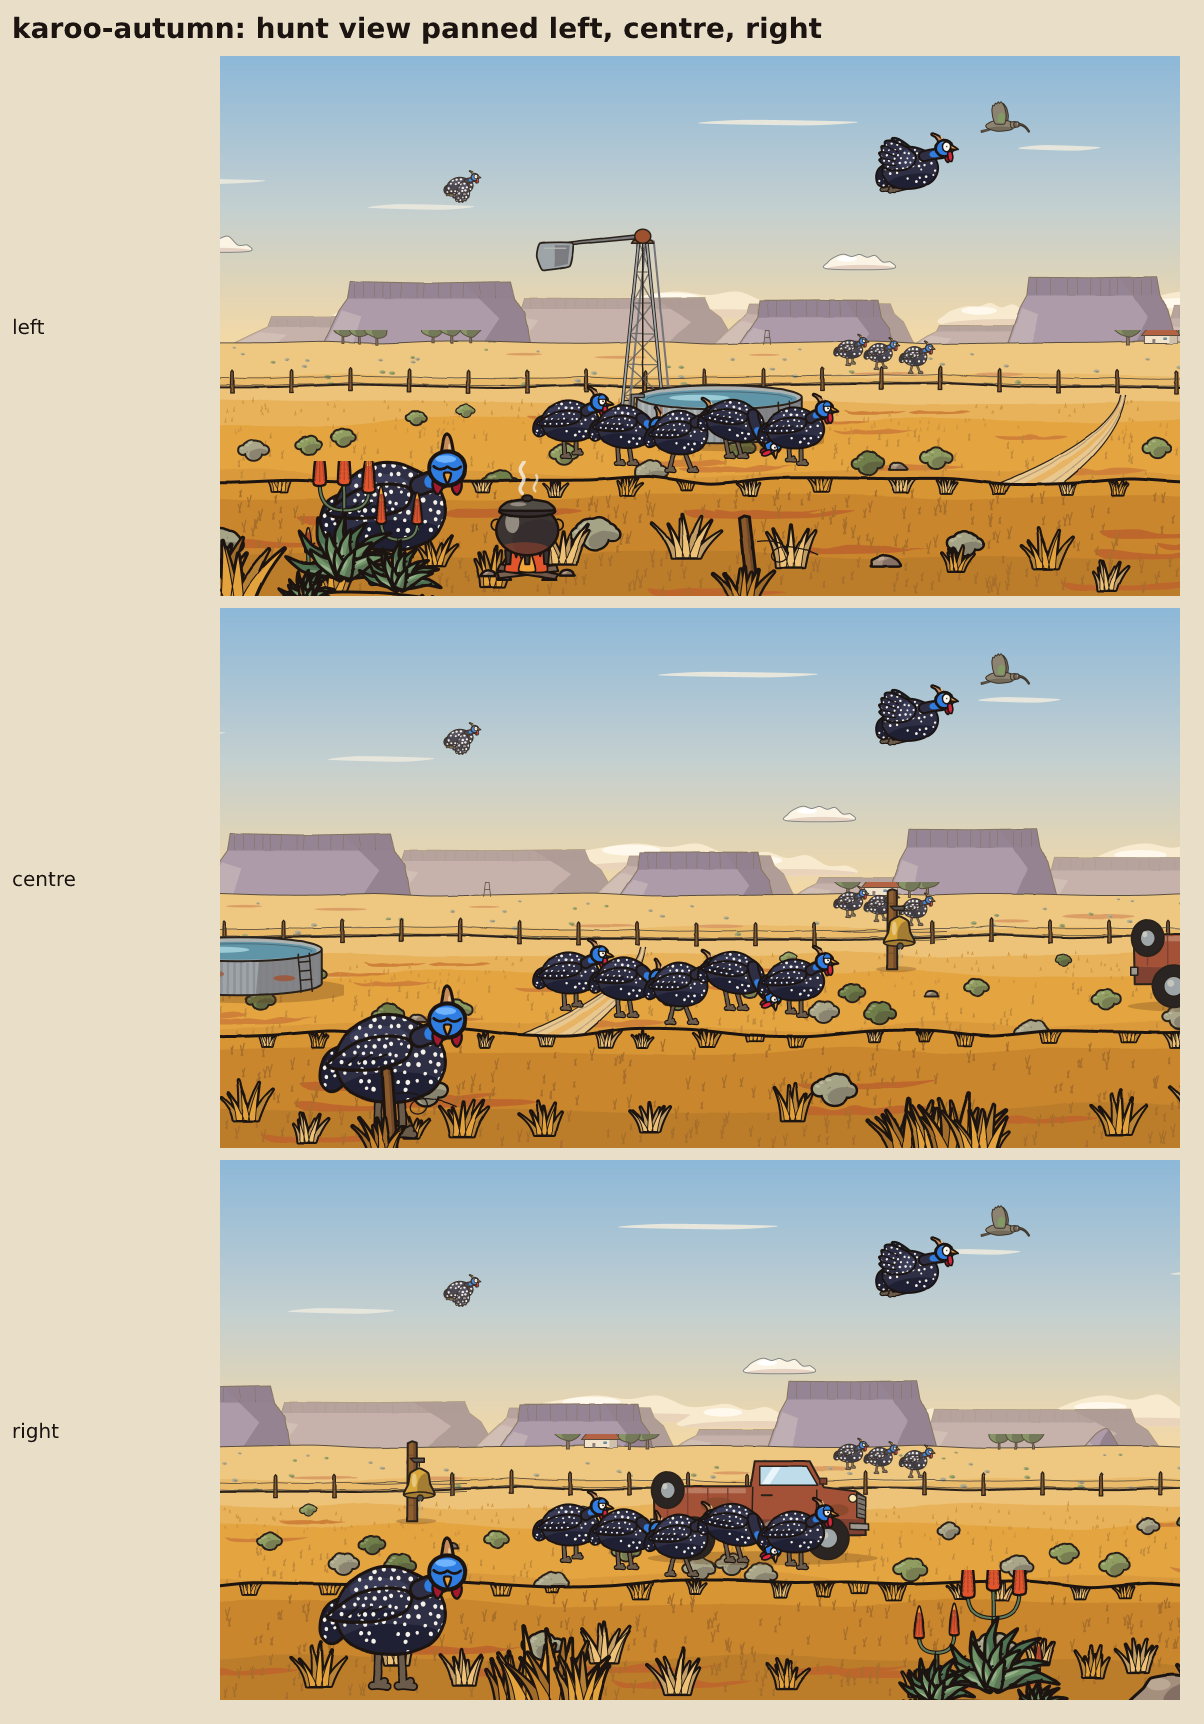
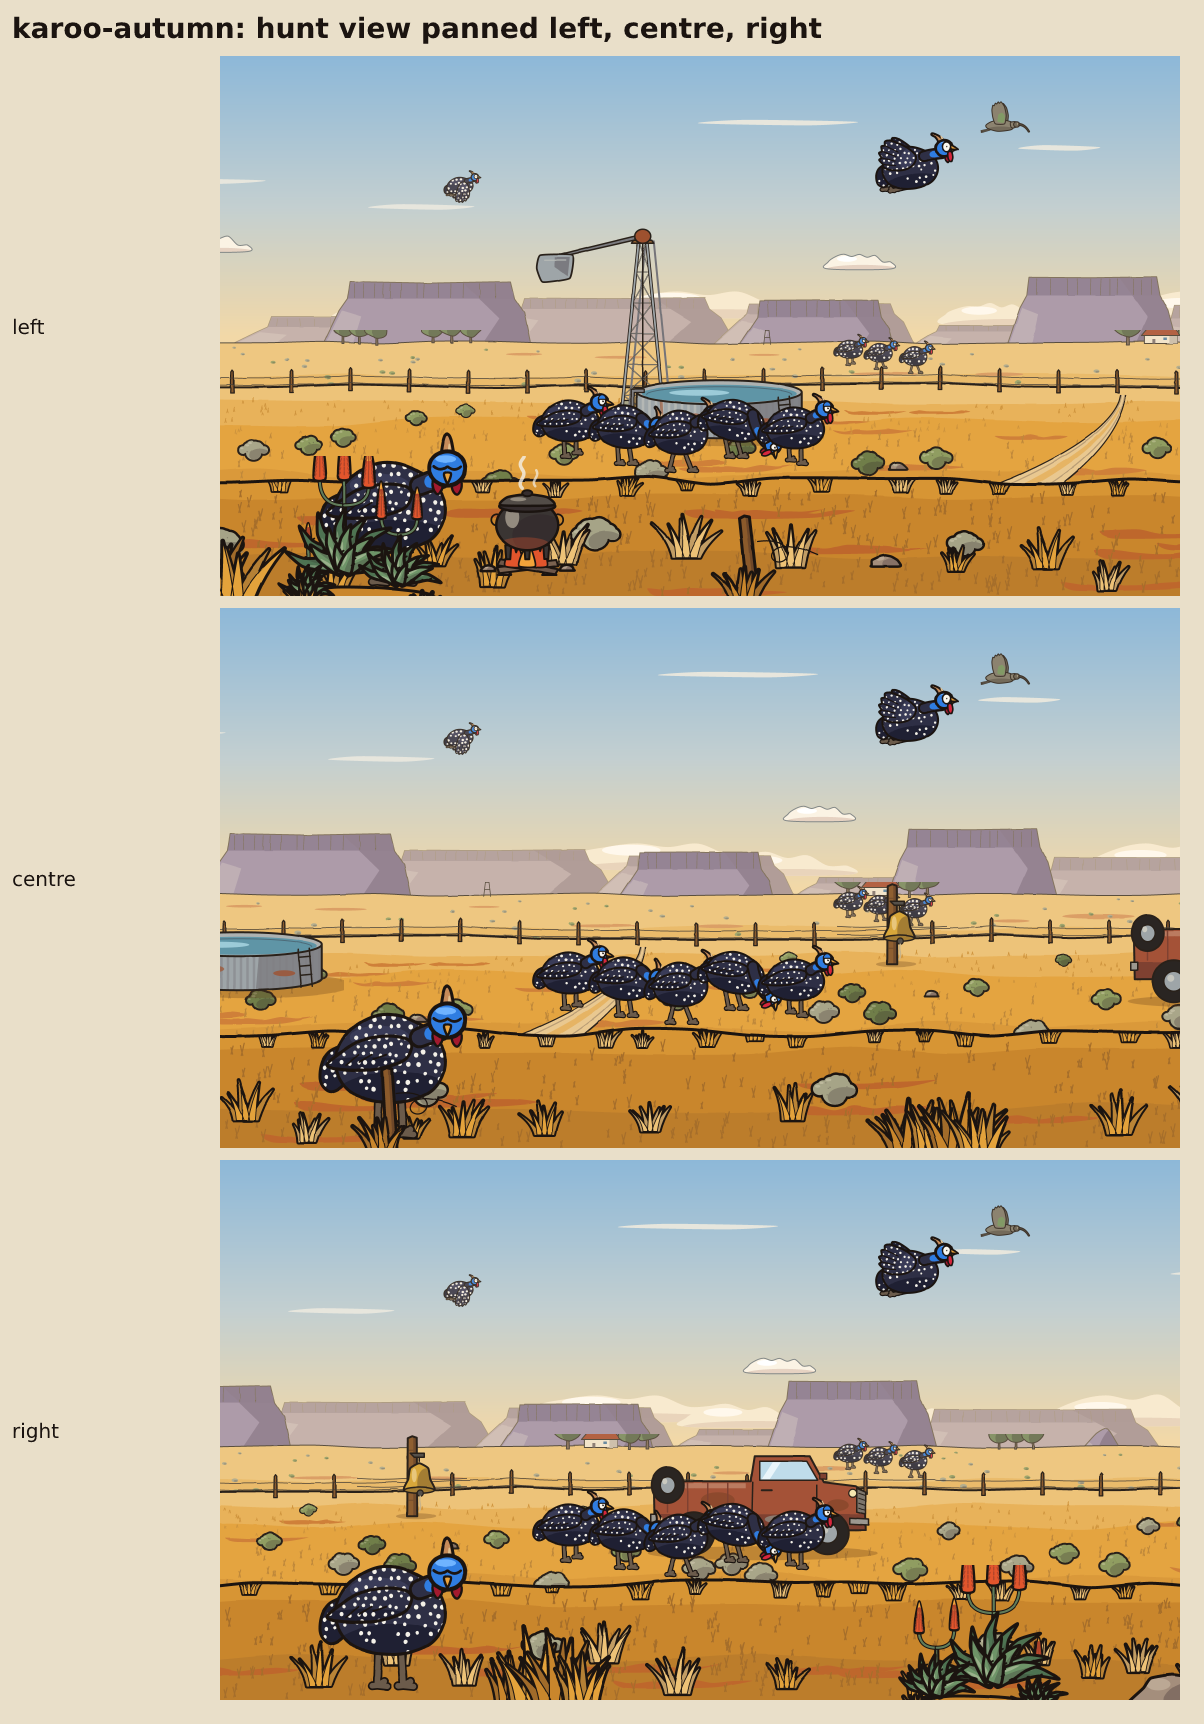
fix(art): review fixes for D-031 part A
Windpomp boom dips to the kwevoel's perch (its feet stand on it); every layer's
width and band is tested, and palette layer tiles; preview sheets place props
at their placeholder origin.

diff --git a/tools/art/biomes/karoo.ts b/tools/art/biomes/karoo.ts
@@ -894,12 +894,13 @@ function windpomp(ctx: PropCtx): string {
       pen.ink,
       3,
     ),
-    // Tail boom and vane (fictional plain vane: no lettering). The kwêvoël perches on the boom.
+    // Tail boom and vane (fictional plain vane: no lettering). The kwêvoël perches on the boom:
+    // its content perch (−150, −92) puts its feet at y ≈ −31 at mid scale, so the boom dips to meet it.
     inked(
       polyD([
         [0, top - 14],
-        [-168, top + 4],
-        [-168, top + 9],
+        [-168, top + 27],
+        [-168, top + 32],
         [0, top - 6],
       ]),
       steel.dark,
@@ -909,11 +910,11 @@ function windpomp(ctx: PropCtx): string {
     inked(
       smoothD(
         [
-          [-205, top + 4],
-          [-140, top + 4],
-          [-146, top + 50],
-          [-200, top + 58],
-          [-212, top + 30],
+          [-205, top + 28],
+          [-140, top + 28],
+          [-146, top + 74],
+          [-200, top + 82],
+          [-212, top + 54],
         ],
         true,
         0.4,
@@ -924,14 +925,14 @@ function windpomp(ctx: PropCtx): string {
     ),
     flat(
       polyD([
-        [-176, top + 8],
-        [-146, top + 8],
-        [-150, top + 46],
+        [-176, top + 32],
+        [-146, top + 32],
+        [-150, top + 70],
         [-176, top + 52],
       ]),
       steel.dark,
     ),
-    line(`M${-196} ${top + 14}l42 0`, { ink: steel.light, w: 2.5 }, 2.5),
+    line(`M${-196} ${top + 38}l42 0`, { ink: steel.light, w: 2.5 }, 2.5),
     inked(ellipseD(0, top - 10, 16, 14), ctx.c('rust'), pen.ink, 3),
   );
 }

diff --git a/tools/art/scenery.test.ts b/tools/art/scenery.test.ts
@@ -127,13 +127,14 @@ describe('interim sprites and props keep the placeholder geometry (D-031)', () =
       }
     }, 120_000);
 
-    it(`${plan.biome}: sky layer at the delivered width`, () => {
+    it(`${plan.biome}: every layer at the delivered width and its plan's band`, () => {
       const biome = content.biomes.find((b) => b.id === plan.biome);
-      const sky = biome?.layers.find((l) => l.id === 'sky');
-      if (sky === undefined) throw new Error('no sky');
-      const img = renderLayer(cfg, plan, sky);
-      expect(img.width).toBe(coreWidth(sky.scrollFactor) + LAYER_BLEED_PX * 2);
-      expect(img.height).toBe(plan.layers['sky']?.height);
-    }, 60_000);
+      if (biome === undefined) throw new Error(plan.biome);
+      for (const layer of biome.layers) {
+        const img = renderLayer(cfg, plan, layer);
+        expect(img.width, layer.id).toBe(coreWidth(layer.scrollFactor) + LAYER_BLEED_PX * 2);
+        expect(img.height, layer.id).toBe(plan.layers[layer.id]?.height);
+      }
+    }, 120_000);
   }
 });

diff --git a/tools/art/scenePreview.ts b/tools/art/scenePreview.ts
@@ -70,6 +70,8 @@ export function composeScene(
   cx: number,
   width = 1920,
   stamps: readonly Stamp[] = [],
+  /** The placeholder's origin (fractions) for props whose sidecar gives none. */
+  originOf: (key: string) => { x: number; y: number } = () => ({ x: 0.5, y: 0.5 }),
 ): Rgba {
   const out = blank(width, 1080);
   const order = [...biome.layers].sort((a, b) => a.scrollFactor - b.scrollFactor);
@@ -86,8 +88,9 @@ export function composeScene(
       if (!existsSync(p)) continue;
       const img = read(p);
       const side = json(p.replace(/\.png$/, '.json'));
-      const ox = (side?.originX ?? 0.5) * img.width;
-      const oy = (side?.originY ?? 0.5) * img.height;
+      const base = originOf(prop.asset);
+      const ox = (side?.originX ?? base.x) * img.width;
+      const oy = (side?.originY ?? base.y) * img.height;
       over(out, img, rootX + prop.u * coreWidth(layer.scrollFactor) - ox, prop.y - oy);
     }
     for (const s of stamps)

diff --git a/tools/art/scenerySheets.ts b/tools/art/scenerySheets.ts
@@ -64,6 +64,8 @@ export function spriteSheet(cfg: ArtConfig): [string, Uint8Array] {
 export function biomeSheets(
   cfg: ArtConfig,
   biome: Biome,
+  /** Placeholder origin per prop key (props keep it; their sidecars only say when it moved). */
+  originOf: (key: string) => { x: number; y: number },
   stamps: (cx: number) => readonly Stamp[] = (cx) => birdStamps(biome, cx),
 ): [string, Uint8Array][] {
   const props = biome.props.map((p) => sprite(p.asset)).filter((f): f is Rgba => f !== null);
@@ -92,7 +94,7 @@ export function biomeSheets(
     ),
   ]);
   const pans = [960, 2560, 4160].map((cx) =>
-    shrink(composeScene(biome, cx, 1920, stamps(cx)), 960),
+    shrink(composeScene(biome, cx, 1920, stamps(cx), originOf), 960),
   );
   out.push([
     `scenery-${short}-pan.png`,

diff --git a/tools/art/interim.ts b/tools/art/interim.ts
@@ -323,7 +323,9 @@ if (process.argv.includes('--sheets')) {
     for (const plan of BIOME_PLANS) {
       const biome = content.biomes.find((b) => b.id === plan.biome);
       if (biome === undefined || (oneBiome !== undefined && plan.biome !== oneBiome)) continue;
-      for (const [name, bytes] of biomeSheets(cfg, biome)) {
+      if (!(await loadBiomeArt(biome.id))) continue;
+      const m = createPlaceholderManifest(content, biome);
+      for (const [name, bytes] of biomeSheets(cfg, biome, (k) => m.origin(k))) {
         put(join(out, name), bytes);
         console.log(`docs/art-preview/${name}`);
       }

diff --git a/tools/assets/pipeline.test.ts b/tools/assets/pipeline.test.ts
@@ -143,6 +143,8 @@ describe('pack-atlases', () => {
     expect(index.audio['sfx/click']?.lufs).toBeCloseTo(-14, 0);
     const tile = index.layers['karoo/far_ridge']?.tiles[0];
     expect(readPng(join(out, tile?.path ?? '')).width).toBe(2048);
+    // `encode: png8` writes palette tiles (PNG colour type 3, byte 25 of the file).
+    expect(readFileSync(join(out, tile?.path ?? ''))[25]).toBe(3);
 
     // D-029: per-plane bird masters, @1x-only palette atlases, interim provenance, guns.
     const disc = (w: number, h: number) => {

diff --git a/docs/05-DECISIONS-AND-RESEARCH.md b/docs/05-DECISIONS-AND-RESEARCH.md
@@ -1326,8 +1326,8 @@ once. The Stormvoël loads with the `late` group, visarend with the Okavango. (9
 glowing eyes and a cold rim light (Stormvoël).
 *§4 — Tests:* `tools/art/scenery.test.ts`: every flyer frame stays inside the bird box and
 covers its body hitbox; every shared sprite and prop is drawn at the placeholder's size and
-origin with its occluder inside the art; layers come out at the delivered width; renders are
-deterministic. The pipeline test covers the layer sidecar.
+origin with its occluder inside the art; every layer comes out at the delivered width and its plan's height; renders are
+deterministic. The pipeline test covers the layer sidecar (provenance, `top`, palette tiles).
 *§6 — Budgets (part A, measured):* first download (gzip, `npm run size -- --strict`) web
 1.11 → **1.69 MB**, Poki and CrazyGames 1.68 MB (cap for this pass 3.0 MB, hard budget 5 MB).
 GPU texture memory at the end of a 20 s Karoo hunt, low tier, Pixel 7 profile (test hook
